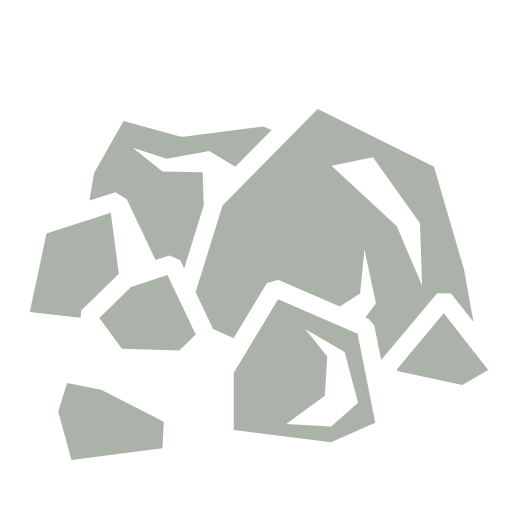
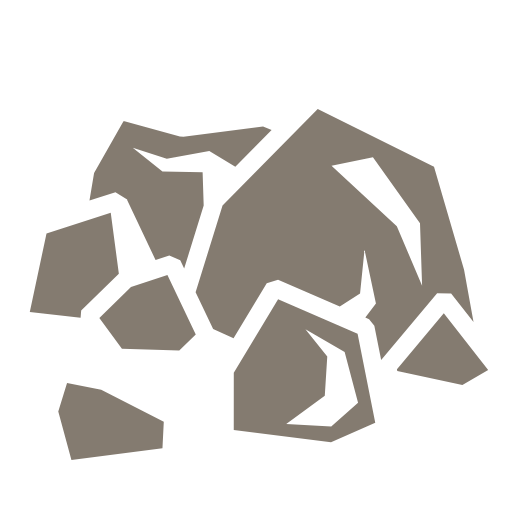
Added Energy
new resource

diff --git a/agr.html b/agr.html
@@ -81,7 +81,26 @@
                     <span id="mps" class="text"></span>
                 </td>
                 <td>
-                    <span id="minerallimit" class="text"></span></td>
+                    <span id="minerallimit" class="text"></span>
+                </td>
+            </tr>
+            <tr class="row-even rowenergy">
+                <td>
+
+                    <div id="energydetails" class="tooltip detailer">
+                        <img draggable="false" src="energy.png" class="energyicon food-icon">
+                        <span class="tooltiptext">Energy</span>
+                    </div>
+                </td>
+                <td>
+                    <span id="energy" class="text"></span>
+                </td>
+                <td>
+                    <span id="eps" class="text"></span>
+                </td>
+                <td>
+                    <span id="energylimit" class="text"></span>
+                </td>
             </tr>
             <tr class="row-odd rowscience">
                 <td>
@@ -253,10 +272,11 @@
             <col id="food-column" />
             <col id="gold-column" />
             <col id="mineral-column" />
+            <col id="energy-column" />
             <col id="science-column" />
             <col id="culture-column" />
         </colgroup>
-        <tr><td></td><td class="buffer"></td><td class="buffer"></td><td class="buffer"></td><td class="buffer"></td><td class="buffer"></td></tr>
+        <tr><td></td><td class="buffer"></td><td class="buffer"></td><td class="buffer"></td><td class="buffer"></td><td class="buffer"></td><td class="buffer"></td></tr>
         <tr class="row">
             <td></td>
             <td>
@@ -278,6 +298,12 @@
                 </div>
             </td>
             <td>
+                <span id="energyappear" class="appearer">+1</span>
+                <div onclick="res[5].toClick()" id="energy_click" class="button click">
+                    <img draggable="false" src="energyclick.png" class="clicker">
+                </div>
+            </td>
+            <td>
                 <span id="scienceappear" class="appearer">+1</span>
                 <div onclick="res[2].toClick()" id="science_click" class="button click">
                     <img draggable="false" src="scienceclick.png" class="clicker">
@@ -292,7 +318,7 @@
         </tr>
         <tr class="row">
             <td></td>
-            <td colspan="5" class="break">
+            <td colspan="6" class="break">
                 Production
             </td>
         </tr>
@@ -440,6 +466,54 @@
 
             </td>
             <td class="topalign">
+                <table id="generator_holder" class="boxholder">
+                    <tr>
+                        <td id="generator_header">
+                            <span id="generators_number" class="amt"></span> Generators <br /><span id="generators_fps" class="fpsamt"></span>
+                        </td>
+                    </tr>
+                    <tr>
+                        <td>
+                            <span class="button" onclick="bldg[15].left()"> ◄ </span>
+                            <span id="generator_working"></span>
+                            <span class="button" onclick="bldg[15].right()"> ► </span>
+                        </td>
+                    </tr>
+                    <tr class="button buy_button" onclick="bldg[15].buy()">
+                        <td>
+                            <p id="generator_cost" class="text"></p>
+                            <div class="tooltip">
+                                <img draggable="false" src="cash.png" class="cashicon food-icon">
+                                <span class="tooltiptext">Cash</span>
+                            </div>
+                        </td>
+                    </tr>
+                </table>
+                <table id="powerplant_holder" class="boxholder">
+                    <tr>
+                        <td id="powerplant_header">
+                            <span id="powerplants_number" class="amt"></span> Power Plants <br /><span id="powerplants_fps" class="fpsamt"></span>
+                        </td>
+                    </tr>
+                    <tr>
+                        <td>
+                            <span class="button" onclick="bldg[17].left()"> ◄ </span>
+                            <span id="powerplant_working"></span>
+                            <span class="button" onclick="bldg[17].right()"> ► </span>
+                        </td>
+                    </tr>
+                    <tr class="button buy_button" onclick="bldg[17].buy()">
+                        <td>
+                            <p id="powerplant_cost" class="text"></p>
+                            <div class="tooltip">
+                                <img draggable="false" src="cash.png" class="cashicon food-icon">
+                                <span class="tooltiptext">Cash</span>
+                            </div>
+                        </td>
+                    </tr>
+                </table>
+            </td>
+            <td class="topalign">
                 <table id="lab_holder" class="boxholder">
                     <tr>
                         <td id="lab_header">
@@ -539,7 +613,7 @@
         </tr>
         <tr class="row">
             <td></td>
-            <td colspan="5" class="break">
+            <td colspan="6" class="break">
                 Storage
             </td>
         </tr>
@@ -635,6 +709,35 @@
                 </table>
             </td>
             <td>
+                <table id="accumulator_holder" class="boxholder">
+                    <tr>
+                        <td id="accumulator_header">
+                            <span id="accumulators_number" class="amt"></span> Accumulators<br /> <span id="accumulators_fps" class="fpsamt"></span>
+                        </td>
+                    </tr>
+                    <tr>
+                        <td>
+                            <span class="button" onclick="bldg[16].left()"> ◄ </span>
+                            <span id="accumulator_working"></span>
+                            <span class="button" onclick="bldg[16].right()"> ► </span>
+                        </td>
+                    </tr>
+                    <tr class="button buy_button" onclick="bldg[16].buy()">
+                        <td>
+                            <p id="accumulator_cost" class="text"></p>
+                            <div class="tooltip">
+                                <img draggable="false" src="cash.png" class="cashicon food-icon">
+                                <span class="tooltiptext">Cash</span>
+                            </div>
+                            <div class="tooltip">
+                                <img draggable="false" src="mineral.png" class="mineralicon food-icon">
+                                <span class="tooltiptext">Mineral</span>
+                            </div>
+                        </td>
+                    </tr>
+                </table>
+            </td>
+            <td>
 
                 <table id="school_holder" class="boxholder">
                     <tr>
@@ -694,7 +797,7 @@
                 </table>
             </td>
         </tr>
-        <tr><td></td><td></td><td></td><td></td><td></td><td></td></tr>
+        <tr><td></td><td></td><td></td><td></td><td></td><td></td><td></td></tr>
     </table>
         </div>
 

diff --git a/runscript.js b/runscript.js
@@ -125,10 +125,11 @@ var reconback = new Map();
 var res = new Array();
 res[0] = new Resource("food", true, "#b6ff9e", 0, 10000);
 res[1] = new Resource("gold", true, "#fff69e", 0, 10000);
-res[2] = new Resource("science", true, "#9ea7ff", 13561, 10000);
-res[3] = new Resource("mineral", false, "#c4c4c4", 0, 10000);
+res[2] = new Resource("science", true, "#9ea7ff", 0, 10000);
+res[3] = new Resource("mineral", false, "#baab9c", 0, 10000);
 res[4] = new Resource("culture", false, "#d19eff", 0, 10000);
-res[5] = new Resource("cash", true, "#d19eff", 100000, 100000);
+res[5] = new Resource("energy", false, "#9effd9", 0, 100000);
+res[6] = new Resource("cash", true, "#d19eff", 0, 100000);
 
 for (i = 0; i < res.length; i++) {
     recon.set(i, res[i].name);
@@ -144,23 +145,27 @@ res[1].rates[5] = 1.3;
 res[2].rates[5] = .9;
 res[3].rates[5] = 1.1;
 
+
 // name, resource, cost_base, cost_mult, efficiency, unlocked
 var bldg = new Array();
-bldg[0] = new Building("Farm",           0, 25,         1.6,     .15, true, [5], 0); // farms
-bldg[1] = new Building("Silo",             0, 200,       1.8,      2.5, false, [5,3], 1); // silos
-bldg[2] = new Building("Plantation",    0, 3450,    2,         40, false, [5], 0); // plantations
-bldg[3] = new Building("Mine",            1, 25,        1.65,    .25, false, [5], 0); // mines
-bldg[4] = new Building("Bank",            1, 200,      2.1,      8, false, [5,3], 1); // banks
-bldg[5] = new Building("Mint",              1, 3500,   2.7,       40, false, [5], 0); // mints
-bldg[6] = new Building("Lab",               2, 200,     2.5,      2, false, [5], 0); // labs
-bldg[7] = new Building("School",          2, 200, 2.95,    45, false, [5,3], 1); // school
-bldg[8] = new Building("Collider",        2, 20000,  2.95,    45, false, [5], 0); // collider (n/a)
-bldg[9] = new Building("Quarry",          3, 50,       1.95,    45, false, [5], 0); // collider (n/a)
-bldg[10] = new Building("Storehouse", 3, 200, 2.95,    45, false, [5,3], 1); // collider (n/a)
-bldg[11] = new Building("Fracker",       3, 20000, 2.95,    45, false, [5], 0); // collider (n/a)
-bldg[12] = new Building("Theatre",       4, 2000, 2.95,    45, false, [5], 0); // collider (n/a)
-bldg[13] = new Building("Museum",      4, 200, 2.95,    45, false, [5,3], 1); // collider (n/a)
-bldg[14] = new Building("Auditorium",   4, 200000, 2.95,    45, false, [5], 0); // collider (n/a)
+bldg[0] = new Building("Farm",           0, 25,         1.6,     .15, true, [6], 0); // farms
+bldg[1] = new Building("Silo",             0, 200,       1.8,      2.5, false, [6,3], 1); // silos
+bldg[2] = new Building("Plantation",    0, 3450,    2,         3.5, false, [6], 0); // plantations
+bldg[3] = new Building("Mine",            1, 25,        1.65,    .25, false, [6], 0); // mines
+bldg[4] = new Building("Bank",            1, 200,      2.1,      8, false, [6,3], 1); // banks
+bldg[5] = new Building("Mint",              1, 3500,   2.7,       3.5, false, [6], 0); // mints
+bldg[6] = new Building("Lab",               2, 200,     2.5,      2, false, [6], 0); // labs
+bldg[7] = new Building("School",          2, 200, 2.95,    45, false, [6,3], 1); // school
+bldg[8] = new Building("Collider",        2, 2000,  2.95,    3.5, false, [6], 0); // collider (n/a)
+bldg[9] = new Building("Quarry",          3, 50,       1.95,    .24, false, [6], 0); // collider (n/a)
+bldg[10] = new Building("Storehouse", 3, 200, 2.95,    45, false, [6,3], 1); // collider (n/a)
+bldg[11] = new Building("Fracker",       3, 2000, 2.95,    45, false, [6], 0); // collider (n/a)
+bldg[12] = new Building("Theatre",       4, 1500, 2.95,    .25, false, [6], 0); // collider (n/a)
+bldg[13] = new Building("Museum", 4, 200, 2.95, 45, false, [6, 3], 1); // collider (n/a)
+bldg[14] = new Building("Auditorium", 4, 2000, 2.95, 45, false, [6], 0); // collider (n/a)
+bldg[15] = new Building("Generator", 5, 300, 2.95, .25, false, [6], 0); // collider (n/a)
+bldg[16] = new Building("Accumulator", 5, 200, 2.95, 45, false, [6, 3], 1); // collider (n/a)
+bldg[17] = new Building("Powerplant", 5, 2000, 2.95, 45, false, [6], 0); // collider (n/a)
 
 var bldgtxt = new Map();
 var builds = new Map();
@@ -297,7 +302,7 @@ function small_int(e){
       return e + suffix;
 }
 
-var clicker = [0, 0, 0, 0, 0, 0];
+var clicker = [0, 0, 0, 0, 0, 0, 0];
 
 function moveClick() {
     for (i = 0; i < clicker.length - 1; i++) {
@@ -340,19 +345,20 @@ function isUnlocked() {
            document.getElementById(res[i].name.substring(0, 1) + "ps").style.display = "none";
            document.getElementById(res[i].name + '_click').style.display = "none";
             document.getElementById(res[i].name + '-column').style.backgroundColor = "#dbdbdb";
-            document.getElementsByClassName('row' + res[i].name)[0].style.backgroundColor = "#e59999";
+            document.getElementsByClassName('row' + res[i].name)[0].style.display = "none";
 
             var lister = document.getElementsByClassName(res[i].name + "icon");
             for (r = 0; r < lister.length; r++) {
                 lister[r].src = "empty.png";
             }
 
-       } else if(i != 5){
+       } else if(i != res.length - 1){
            document.getElementById(res[i].name).style.display = "inline";
            document.getElementById(res[i].name.substring(0, 1) + "ps").style.display = "inline";
            document.getElementById(res[i].name + '_click').style.display = "block";
            document.getElementById(res[i].name + '-column').style.backgroundColor = res[i].color;
            document.getElementsByClassName('row' + res[i].name)[0].style.backgroundColor = res[i].color;
+           document.getElementsByClassName('row' + res[i].name)[0].style.display = "table-row";
 
             var lister = document.getElementsByClassName(res[i].name + "icon");
             for (r = 0; r < lister.length; r++) {
@@ -414,7 +420,7 @@ function init() {
 	}
     }
     
-    document.getElementById('cash').innerHTML = small_int(Math.floor(res[5].amt));  
+    document.getElementById('cash').innerHTML = small_int(Math.floor(res[res.length - 1].amt));  
     
     document.getElementById('food_to_cash_rate').innerHTML = res[0].rates[5];
     document.getElementById('gold_to_cash_rate').innerHTML = res[1].rates[5];
@@ -649,8 +655,8 @@ function repeat() {
         document.getElementById(res[i].name + "appear").innerHTML = "+" + res[i].click;
     }
 
-    if (res[5].amt > res[5].limit) {
-        res[5].amt = res[5].limit;
+    if (res[res.length - 1].amt > res[res.length - 1].limit) {
+        res[res.length - 1].amt = res[res.length - 1].limit;
     }
 
    if (repetir > rep_max) {
@@ -723,12 +729,12 @@ for (r = 1; r < pages + 1; r++) {
 }
 
 switchPage(1);
-auto(0, 5);
-auto(0, 5);
-auto(1, 5);
-auto(2, 5);
-auto(2, 5);
-auto(3, 5);
-auto(3, 5);
+auto(0, 6);
+auto(0, 6);
+auto(1, 6);
+auto(2, 6);
+auto(2, 6);
+auto(3, 6);
+auto(3, 6);
 init();
 repeat();

diff --git a/stylesheet.css b/stylesheet.css
@@ -101,10 +101,12 @@ body{
 
 .page{
     overflow: scroll;
+    overflow-x: scroll;
     position:fixed;
     left:310px;
     top:5%;
     height:100%;
+    width:90%;
     z-index:-2;
 }
 
@@ -342,6 +344,12 @@ body{
     margin-right:auto;
 }
 
+#energy_click{
+    background-color: #4fffa1;
+    margin-left:auto;
+    margin-right:auto;
+}
+
 #culture_click{
     background-color: #ac4fff;
     margin-left:auto;
@@ -349,7 +357,7 @@ body{
 }
 
 #mineral_click{
-    background-color: #abb2a9;
+    background-color: #847b70;
     margin-left:auto;
     margin-right:auto;
 }
